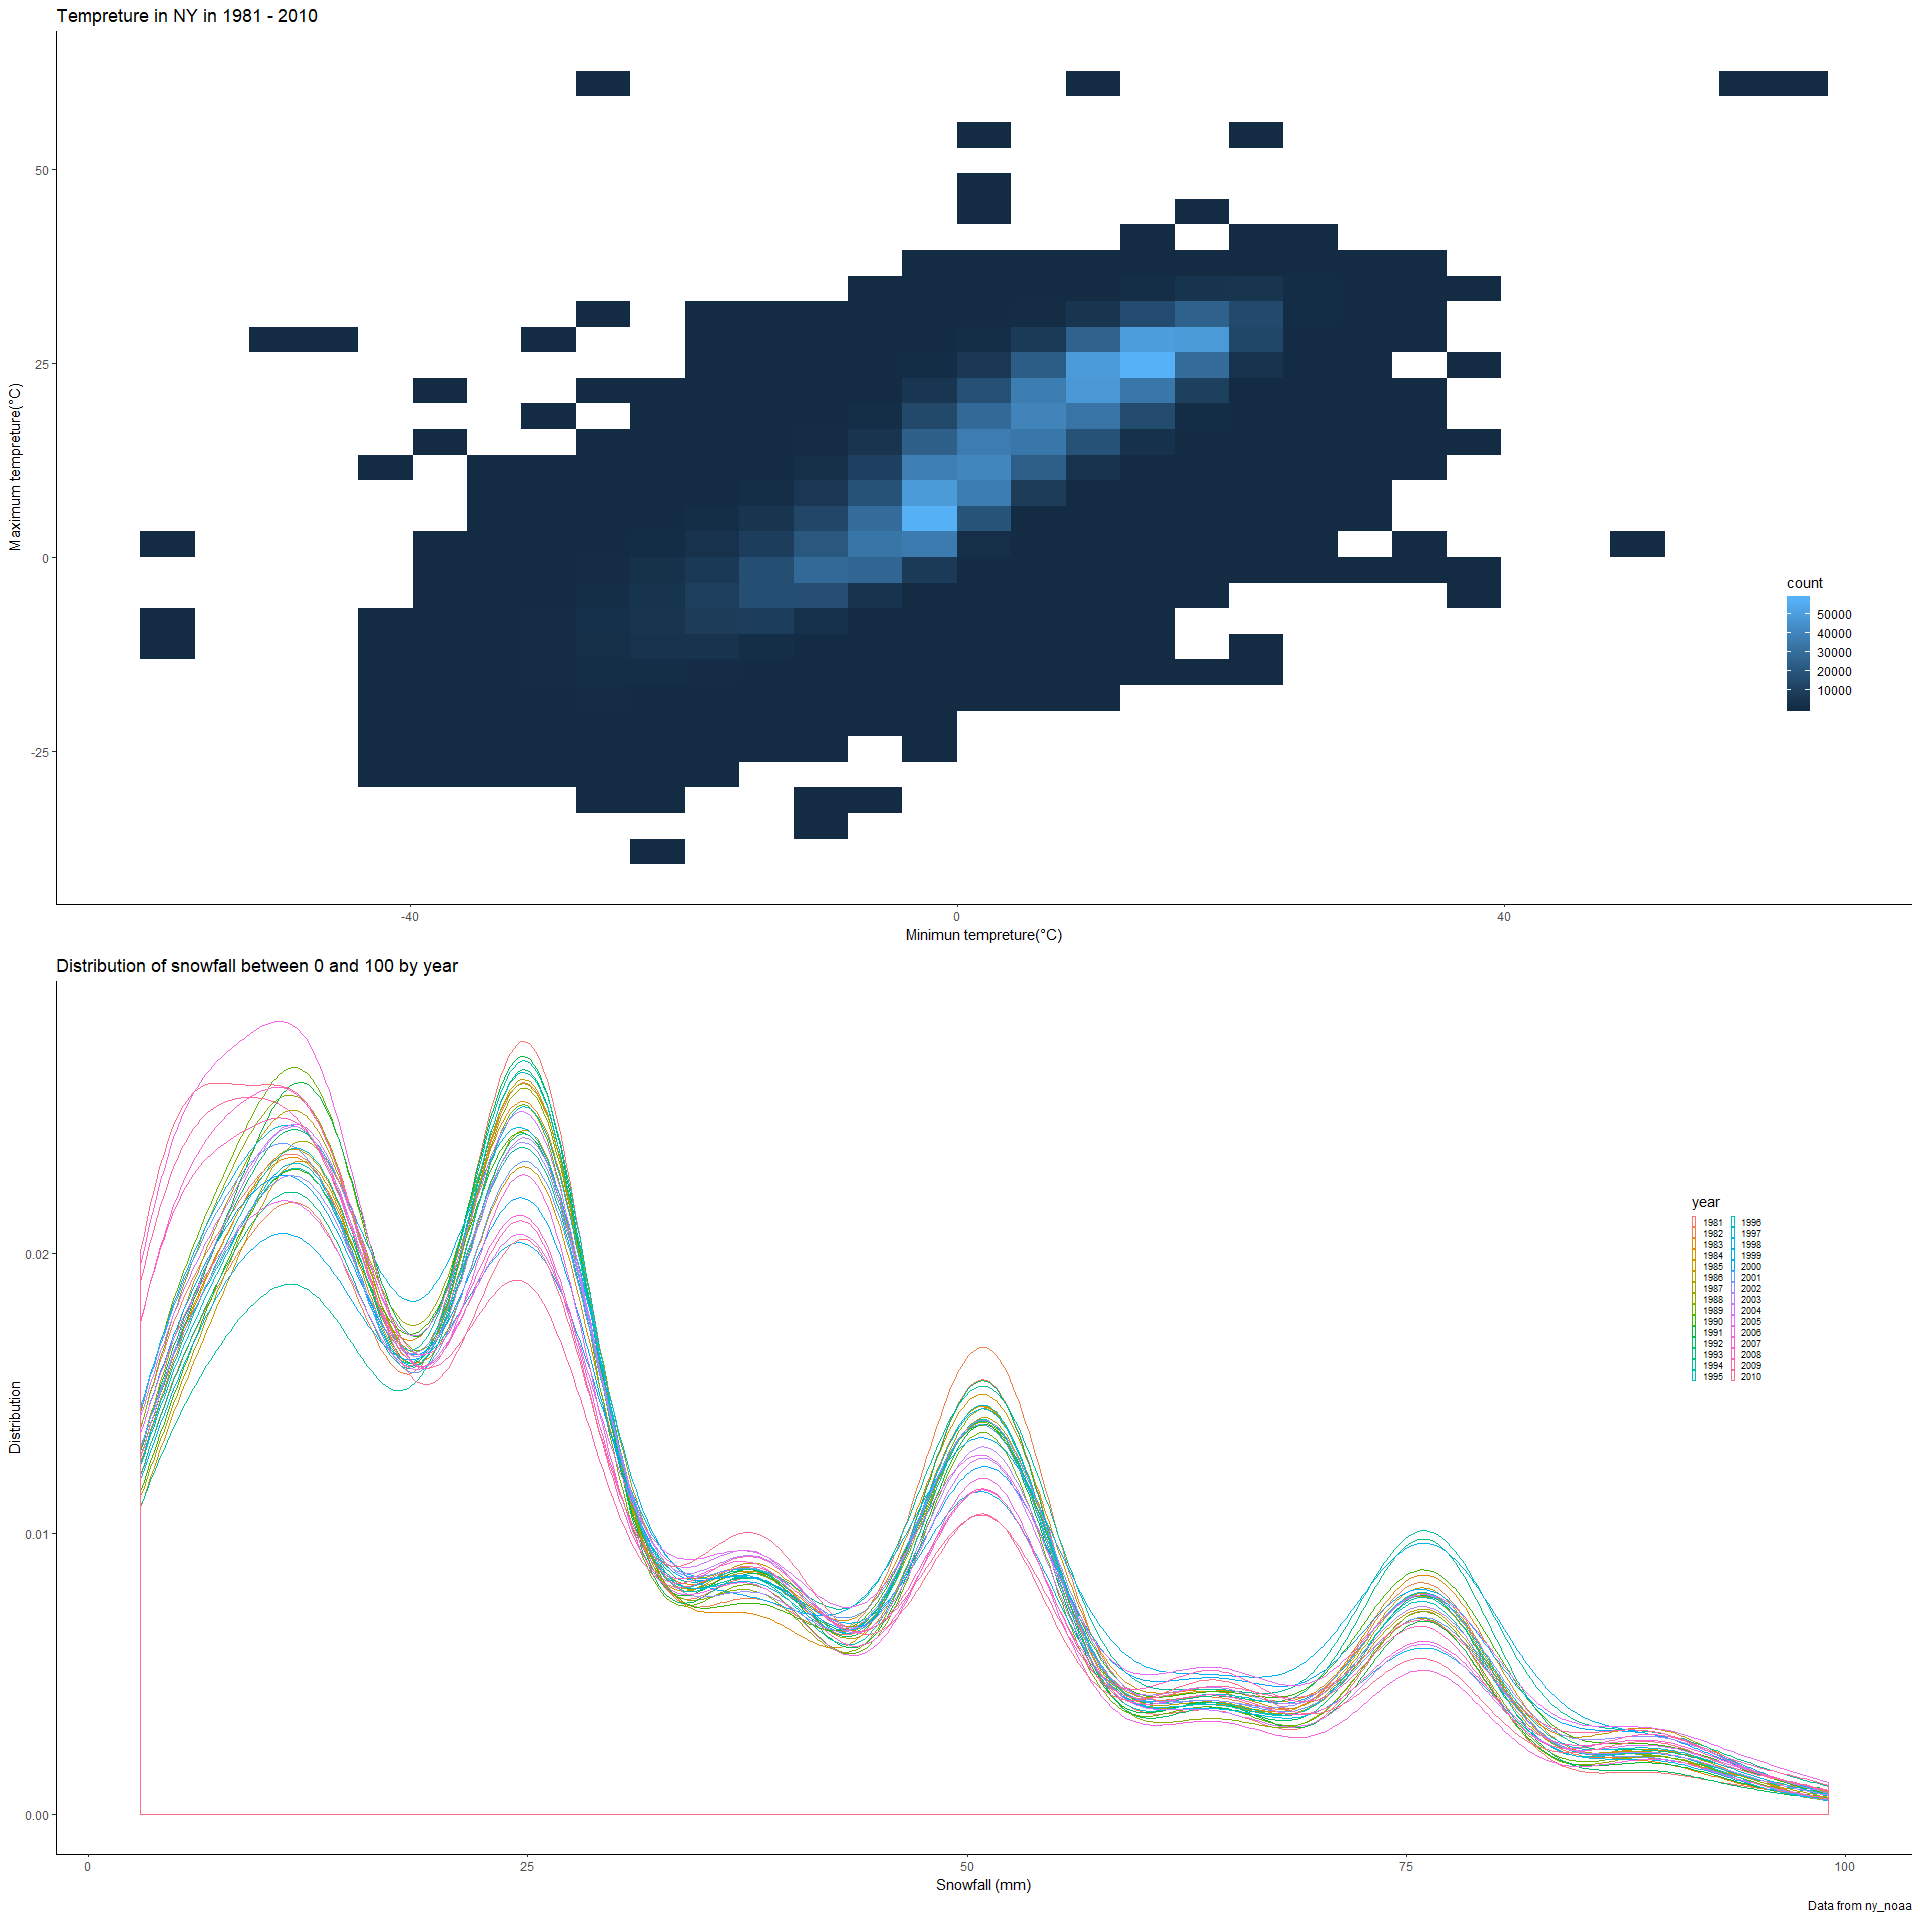
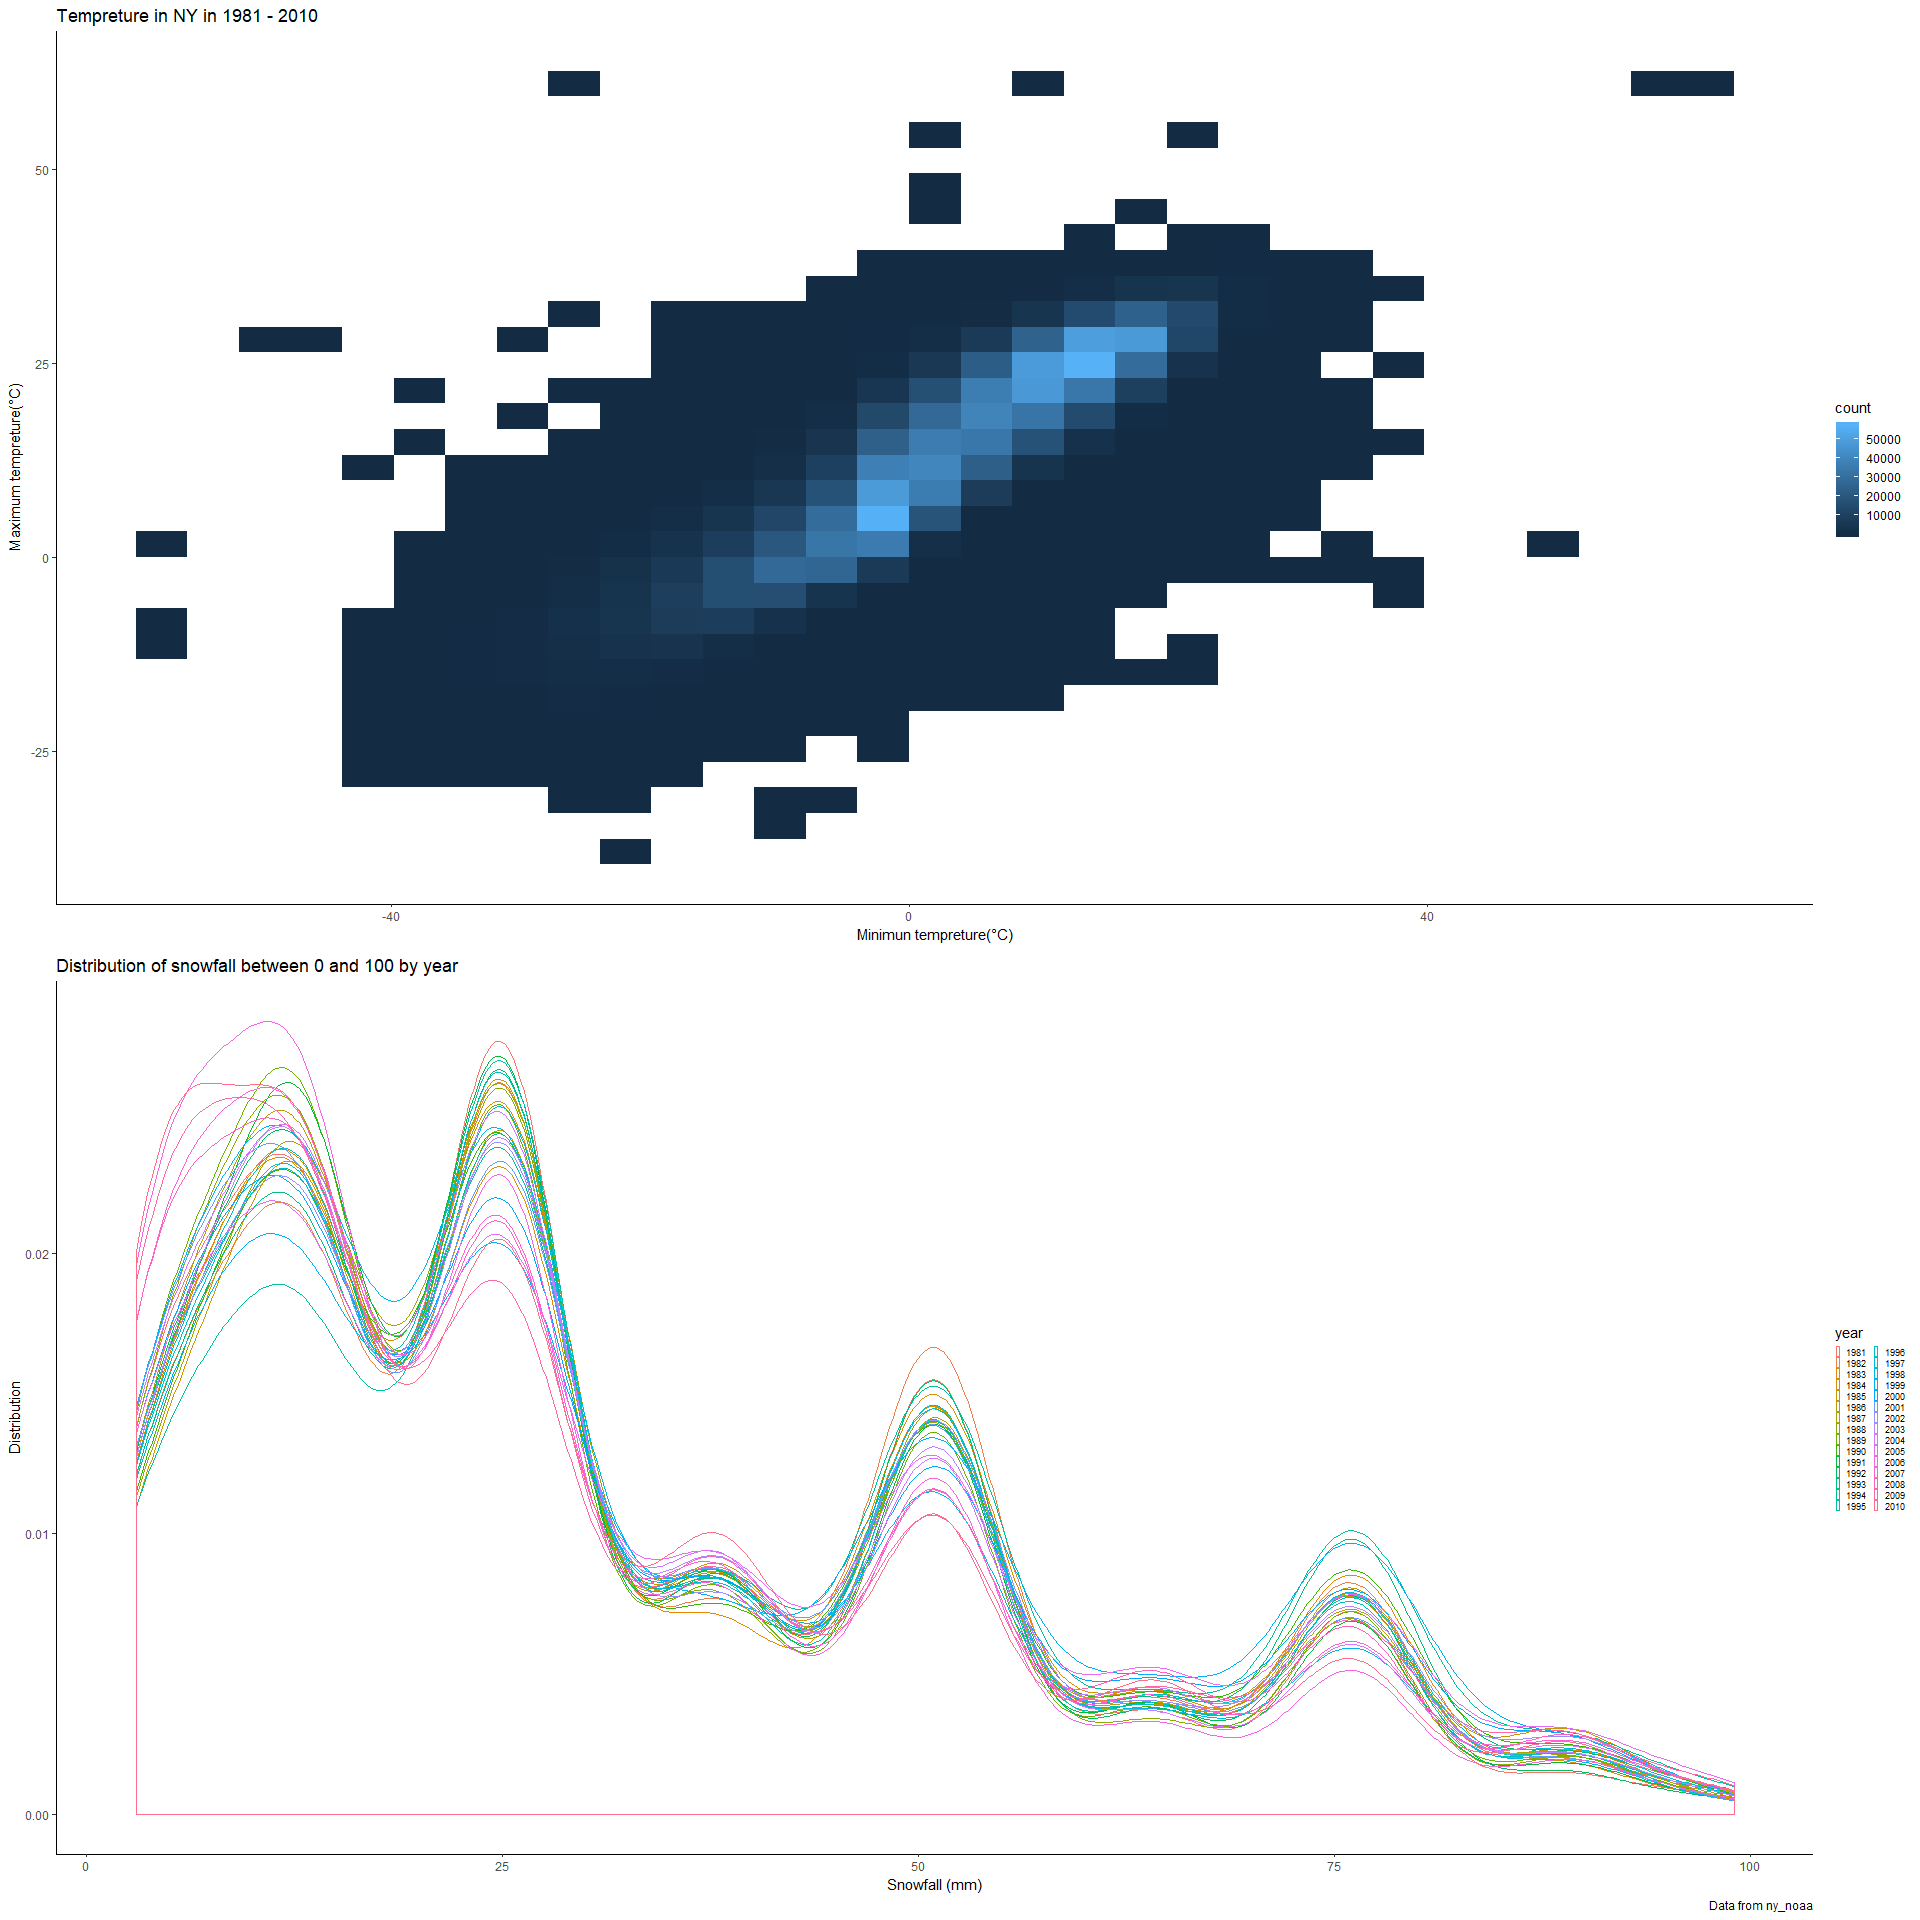
initial finish

diff --git a/p8105_hw3_jy2947.md b/p8105_hw3_jy2947.md
@@ -103,7 +103,7 @@ brfss_smart2010 %>%
 
 ![](p8105_hw3_jy2947_files/figure-markdown_github/response_distribution-1.png)
 
-For most states, 30% - 40% people think their overall health is very good, but not excellent in 2002 - 2010. Less than 10% people thinks their overall health is poor. Generally speaking the majority of people thinks their health status is good or better.
+For most states, 30% - 40% people think their overall health is very good, but not excellent in 2002 - 2010. Less than 10% people thinks their overall health is poor. Generally speaking the majority of people thinks their health status is good or better. But there is difference in proportions across the states.
 
 ### Problem 2
 
@@ -155,21 +155,31 @@ instacart %>%
 So we have 134 aisles. People are ordering the most item from fresh vegetables, with `aisle_id = 83`.
 
 ``` r
+knitr::opts_chunk$set(
+  fig.width = 10,
+  fig.height = 15
+)
+```
+
+``` r
 instacart %>%  
   group_by(aisle) %>% 
   summarize(n_aisle = n()) %>% 
   ggplot(aes(x = reorder(aisle, n_aisle), y = n_aisle)) +
-  geom_bar(stat = "identity") +
+  geom_col(fill = "light blue") +
   labs(title = "Total number of items ordered in each aisle", 
        x = "Aisle",
        y = "Total number of items ordered",
        caption = "Data from instacart") +
   coord_flip() +
   theme_classic() +
-  theme(legend.position = "none")
+  theme(legend.position = "none") +
+  theme(axis.text = element_text(size = 10))
 ```
 
 ![](p8105_hw3_jy2947_files/figure-markdown_github/first_plot-1.png)
+
+The most items ordered are from aisle `fresh vegetables` and `fresh fruits`, which is about 150,000 items each. Beaty items are the least ordered items from instacart, which is about 0. It seems people use instacart to shop their daily needs of groceries.
 
 ``` r
 instacart %>% 
@@ -189,6 +199,8 @@ instacart %>%
 | baking ingredients         | Light Brown Sugar                             |          499|
 | dog food care              | Snack Sticks Chicken & Rice Recipe Dog Treats |           30|
 
+The most popular item in `packaged vegetable fruits` aisle is "Organic Baby Spinach", which is ordered 9784 times. People must really love organic baby spinach for some reason. "Light Brown Sugar" is the most ordered item in `baking ingredients`, which is ordered 499 times. For `dog fod care` aisle "Snack Sticks Chicken & Rice Recipe Dog Treats" is most ordered. It is interesting why "treats" beats the dry foods to beome the No. 1 choice in `dog food care`.
+
 ``` r
 instacart %>% 
   filter(product_name == "Pink Lady Apples" |
@@ -206,15 +218,58 @@ instacart %>%
 | Coffee Ice Cream |    13.8|    14.3|     15.4|       15.3|      15.2|    12.3|      13.8|
 | Pink Lady Apples |    13.4|    11.4|     11.7|       14.2|      11.6|    12.8|      11.9|
 
+The original dataset used numbers 0-6 to present the day of a week. Here I assume that 0 stands for Sunday, 1 stands for Monday, etc. I don't actually see the point in taking the mean of the `order_hour_of_day` variable. If you are interested in when a specific item is ordered the most, a better way might be making a distribution plot across the hours of a day. But the table above provides some information - people tend to order "Pink Lady Apples" earilier in a day and tend to order "Coffee Ice Cream" later in a day.
+
 ### Problem 3
 
 ``` r
 data("ny_noaa")
 ny_noaa = 
   janitor::clean_names(ny_noaa)
+prcp_missing =
+  round(
+    ny_noaa %>% 
+      drop_na(prcp) %>% 
+      nrow() * 100 / nrow(ny_noaa), 
+    digits = 1)
+
+snow_missing =
+  round(
+    ny_noaa %>% 
+      drop_na(snow) %>% 
+      nrow() * 100 / nrow(ny_noaa), 
+    digits = 1)
+
+snwd_missing =
+  round(
+    ny_noaa %>% 
+      drop_na(snwd) %>% 
+      nrow() * 100 / nrow(ny_noaa), 
+    digits = 1)
+
+tmax_missing =
+  round(
+    ny_noaa %>% 
+      drop_na(tmax) %>% 
+      nrow() * 100 / nrow(ny_noaa), 
+    digits = 1)
+
+tmin_missing =
+  round(
+    ny_noaa %>% 
+      drop_na(tmin) %>% 
+      nrow() * 100 / nrow(ny_noaa), 
+    digits = 1)
 ```
 
-This dataset contains some information of weather at different locations in the US. It has 2595176 observations and 7 variables. It identifies a place by the id, and have information about the max and min temperature, percipitation, snow and snwd *w**h**a**t**i**s**t**h**i**s* on a specific day from 1993 to 2010. There are lot of data missing.
+This dataset contains some information of weather at different locations in the US. It has 2595176 observations and 7 variables. The key variables are `id` and `date`. The `id` identifies a weather station, and the `date` identifies a date. Other variables are the max and min temperature, percipitation, snowfall and snow depth on a specific day from 1981 to 2010 at a specific weather station. There are a lot of data missing. Percipitation data has 94.4% data missing, snowfall data has 85.3% data missing, snow depth data has 77.2% data missing, both tmax and tmin data have 56.3% data missing. It is stated in the NOAA data page that some weather station only collect a subset of these variable, so there are extensive missing data.
+
+``` r
+knitr::opts_chunk$set(
+  fig.width = 6,
+  fig.height = 8
+)
+```
 
 ``` r
 ny_noaa = 
@@ -246,7 +301,7 @@ ny_noaa %>%
     ## 10       3       8790
     ## # ... with 272 more rows
 
-The most frequent value for `snowfall` is 0, which means it is not snowing in the location on that day.
+The units for `tmax` and `tmin` were both tenths degree C, and were changed to degree C to avoid confusion. Since the most common unit for percipitation is mm, `prcp` variable is also adjusted. The most frequent value for `snowfall` is 0, which means it is not snowing in the location on that day. It only snows in winter in NY, so this is reasonable.
 
 ``` r
 knitr::opts_chunk$set(
@@ -264,7 +319,7 @@ max_temp =
 ggplot(max_temp, aes(x = year, y = mean_max)) + 
   geom_point(aes(color = id)) +
   labs(
-#    title = "Max tempreture in NY weather stations in January and July (1991-2010)", 
+    title = "Max tempreture in NY weather stations in January and July (1991-2010)", 
     y = "Tempreture (°C)", 
     x = "Year",
     caption = "Data from ny_noaa package") +
@@ -278,6 +333,8 @@ ggplot(max_temp, aes(x = year, y = mean_max)) +
 
 ![](p8105_hw3_jy2947_files/figure-markdown_github/max_temp_plot-1.png)
 
+It is clear that July is much warmer than January, without doubt. It seems some of the winters after millennium are warmer than winters in the 1980s, with some exceptions such as 2009. But the summers are always hot in NY. There are some outliers in the graph. There are several different stations in each panel that recorded cooler tempreture than other stations. It is unclear whether this is due to machine error or other reasons.
+
 ``` r
 tmax_min = 
   ggplot(ny_noaa, aes(x = tmin_c, y = tmax_c)) +
@@ -286,7 +343,7 @@ tmax_min =
        x = "Minimun tempreture(°C)", 
        y = "Maximum tempreture(°C)") +
   theme_classic() +
-  theme(legend.position = c(0.95, 0.3))
+  theme(legend.position = "right")
 
 snowfall =
   ny_noaa %>% 
@@ -298,7 +355,7 @@ snowfall =
          y = "Distribution",
          caption = "Data from ny_noaa") +
     theme_classic() +
-    theme(legend.position = c(0.9, 0.65),
+    theme(legend.position = "right",
           legend.key.size = unit(0.1, "cm"), 
           legend.text = element_text(size = 7),
           legend.direction = "vertical")
@@ -309,3 +366,5 @@ tmax_min/snowfall
     ## Warning: Removed 1136276 rows containing non-finite values (stat_bin2d).
 
 ![](p8105_hw3_jy2947_files/figure-markdown_github/tmax_tmin-1.png)
+
+In this question heatmap and density plot are chosen to display the data. Heatmap reflects the frequency of a tempreture combination. From the plot it is clear that most days and stations have a not super cold and not super hot weather. After removing the missing data, the plot shows that it was not snowing heavily in most day and places, but there is still some time when the snowfall can goes as high as 75 mm. So people have to be prepared for these days.
